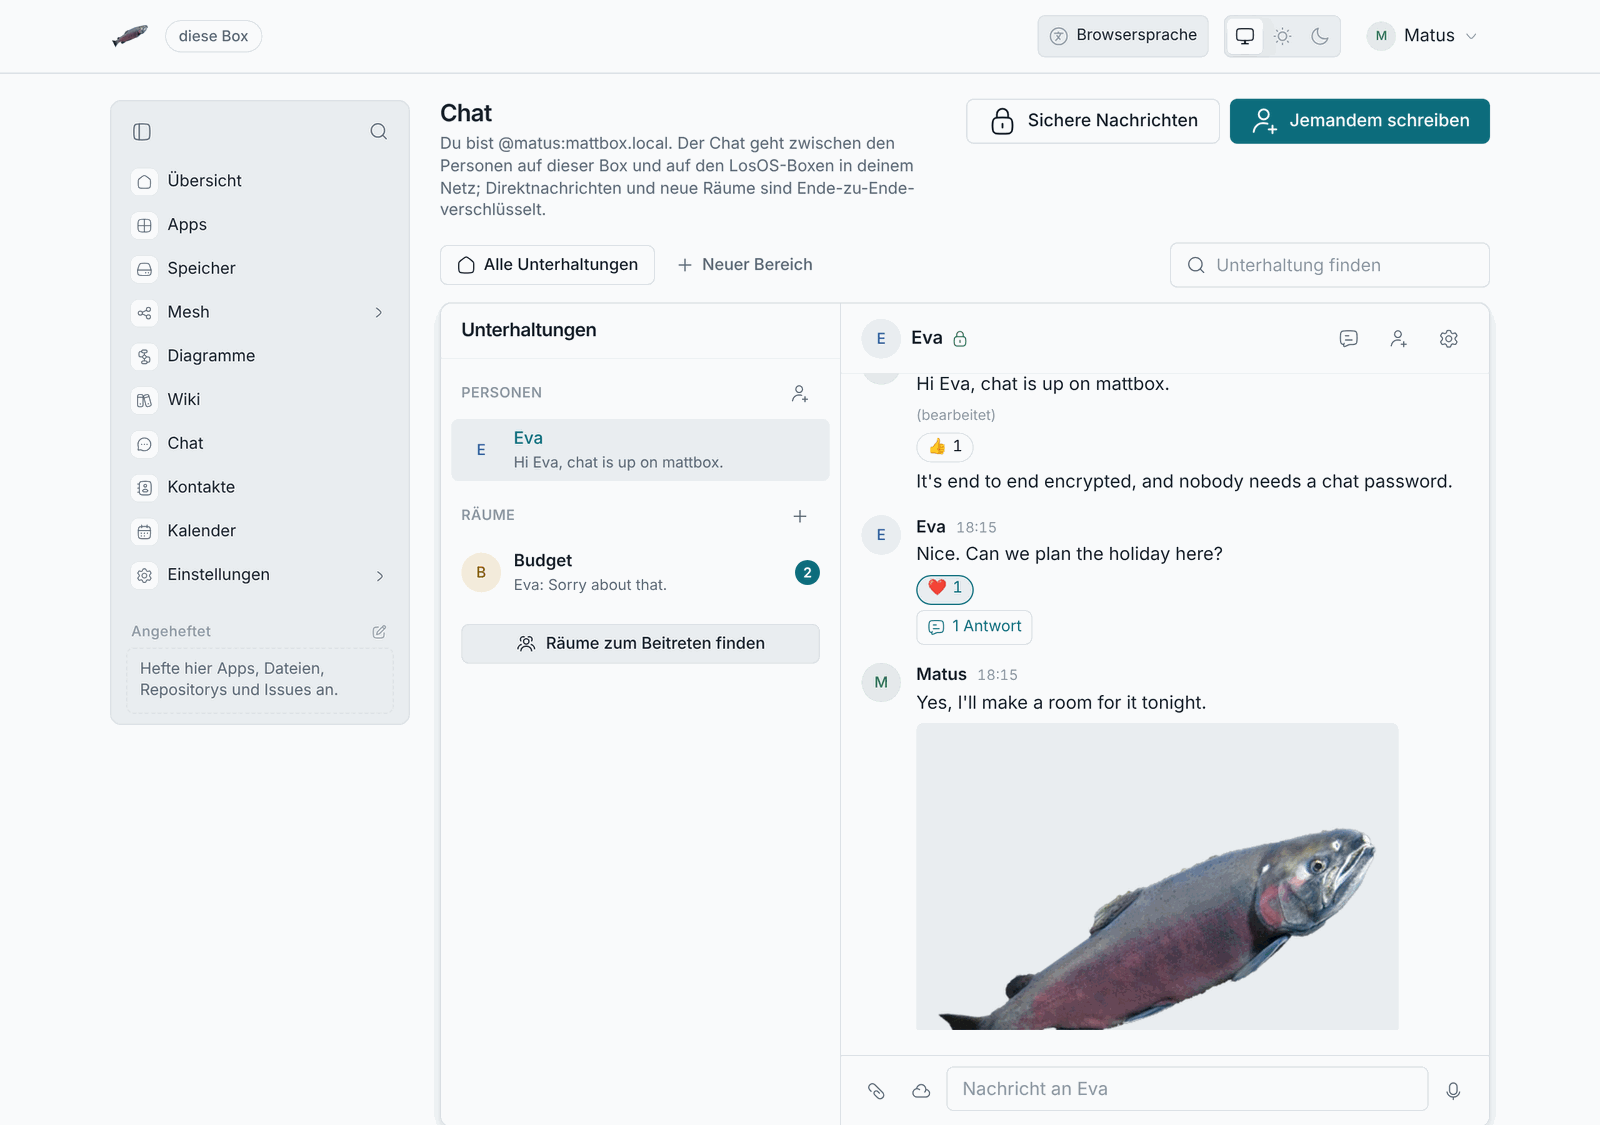
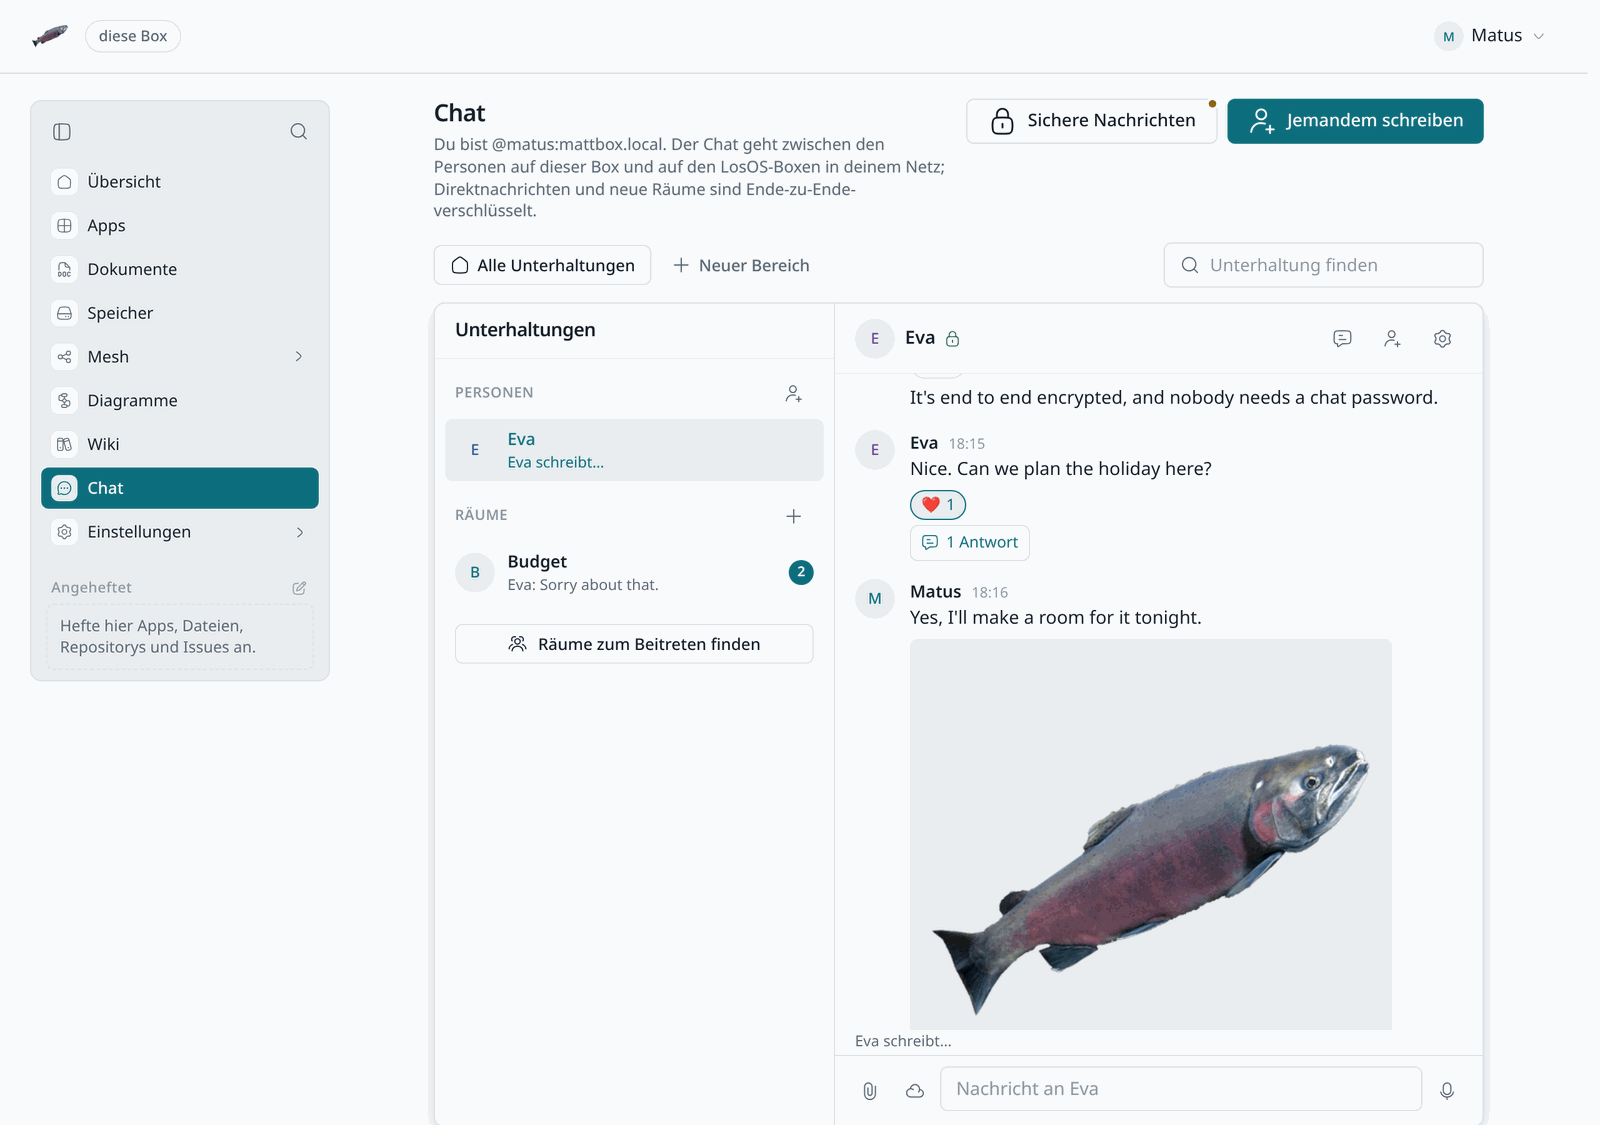
docs(handbook): retake the chat pictures with the typing indicator
chat.png, chat-sk.png and chat-de.png show the current chat page with
Eva is typing… in the room list and above the composer (#764). Alt text
says so; the German page writes the indicator as the UI does.

diff --git a/handbook/i18n/de/docusaurus-plugin-content-docs/current/manual/chat.md b/handbook/i18n/de/docusaurus-plugin-content-docs/current/manual/chat.md
@@ -108,7 +108,7 @@ Rechtsklick auf die Nachricht bietet dasselbe und dazu das Kopieren ihres
 Texts. Die
 Thread-Schaltfläche in der Kopfzeile des Raums listet seine Threads.
 
-Während jemand schreibt, steht **Eva schreibt …** über den Nachrichten und
+Während jemand schreibt, steht **Eva schreibt…** über den Nachrichten und
 unter dem Namen der Unterhaltung in der Liste; es verschwindet, sobald die
 Person sendet oder aufhört zu schreiben.
 
@@ -128,7 +128,7 @@ sie geht.
 Eine kleine Reihe von Gesichtern unter einer Nachricht zeigt, wer bis dorthin
 gelesen hat.
 
-![Eine Unterhaltung mit Eva in LosOS Chat: Reaktionen unter den Nachrichten, eine Antwort in einem Thread und ein Bild, darunter die Büroklammer, die Cloud-Taste und das Mikrofon.](@site/docs/img/chat-de.png)
+![Eine Unterhaltung mit Eva in LosOS Chat, während sie schreibt: Eva schreibt… unter ihrem Namen in der Liste und über dem Eingabefeld, eine Reaktion und eine Antwort in einem Thread unter ihrer Nachricht, ein Bild, und die Büroklammer, die Cloud-Taste und das Mikrofon.](@site/docs/img/chat-de.png)
 
 ## Andere Matrix-Apps
 

diff --git a/handbook/docs/manual/chat.md b/handbook/docs/manual/chat.md
@@ -113,7 +113,7 @@ conversation it goes to.
 
 A small row of faces under a message shows who has read up to there.
 
-![A conversation with Eva in LosOS Chat: reactions under the messages, a reply in a thread and a picture, with the paper clip, the cloud button and the microphone under it.](../img/chat.png)
+![A conversation with Eva in LosOS Chat while she writes: Eva is typing… under her name in the list and above the box you write in, a reaction and a reply in a thread under her message, a picture, and the paper clip, the cloud button and the microphone.](../img/chat.png)
 
 ## Other Matrix apps
 

diff --git a/handbook/i18n/sk/docusaurus-plugin-content-docs/current/manual/chat.md b/handbook/i18n/sk/docusaurus-plugin-content-docs/current/manual/chat.md
@@ -116,7 +116,7 @@ do ktorej konverzácie má ísť.
 
 Malý rad tvárí pod správou ukazuje, kto už čítal až potiaľto.
 
-![Konverzácia s Evou v LosOS Chat: reakcie pod správami, odpoveď vo vlákne a obrázok, pod nimi kancelárska spinka, tlačidlo cloudu a mikrofón.](@site/docs/img/chat-sk.png)
+![Konverzácia s Evou v LosOS Chat, kým píše: Eva píše… pod jej menom v zozname a nad poľom na písanie, reakcia a odpoveď vo vlákne pod jej správou, obrázok, a kancelárska spinka, tlačidlo cloudu a mikrofón.](@site/docs/img/chat-sk.png)
 
 ## Iné aplikácie pre Matrix
 
